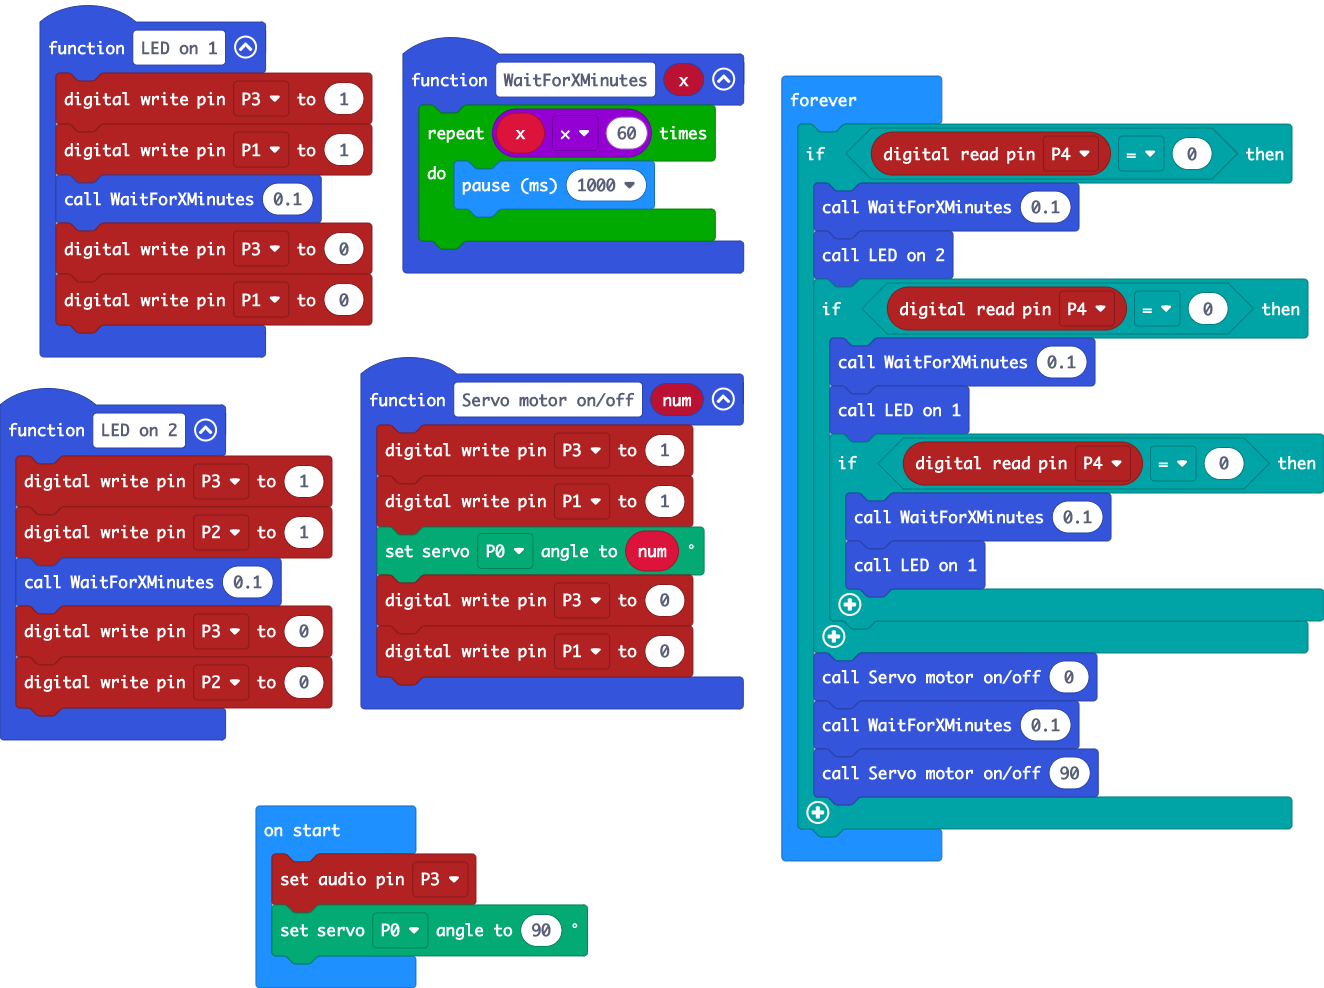
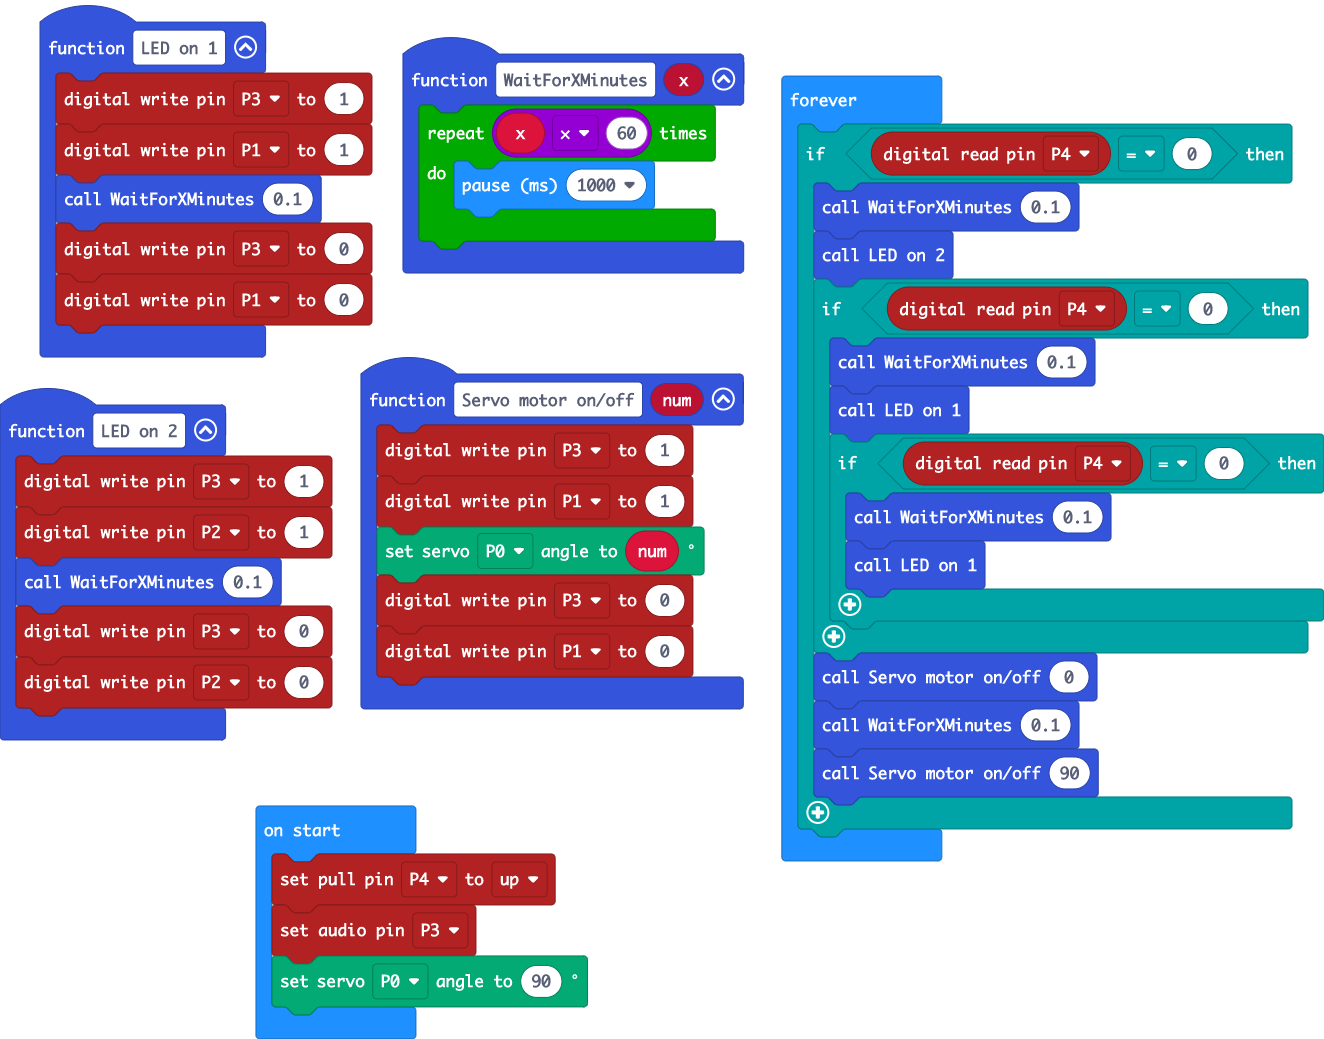
Update main.blocks, main.ts

diff --git a/main.ts b/main.ts
@@ -24,6 +24,7 @@ function LED_on_2 () {
     pins.digitalWritePin(DigitalPin.P3, 0)
     pins.digitalWritePin(DigitalPin.P2, 0)
 }
+pins.setPull(DigitalPin.P4, PinPullMode.PullUp)
 pins.setAudioPin(AnalogPin.P3)
 servos.P0.setAngle(90)
 basic.forever(function () {
